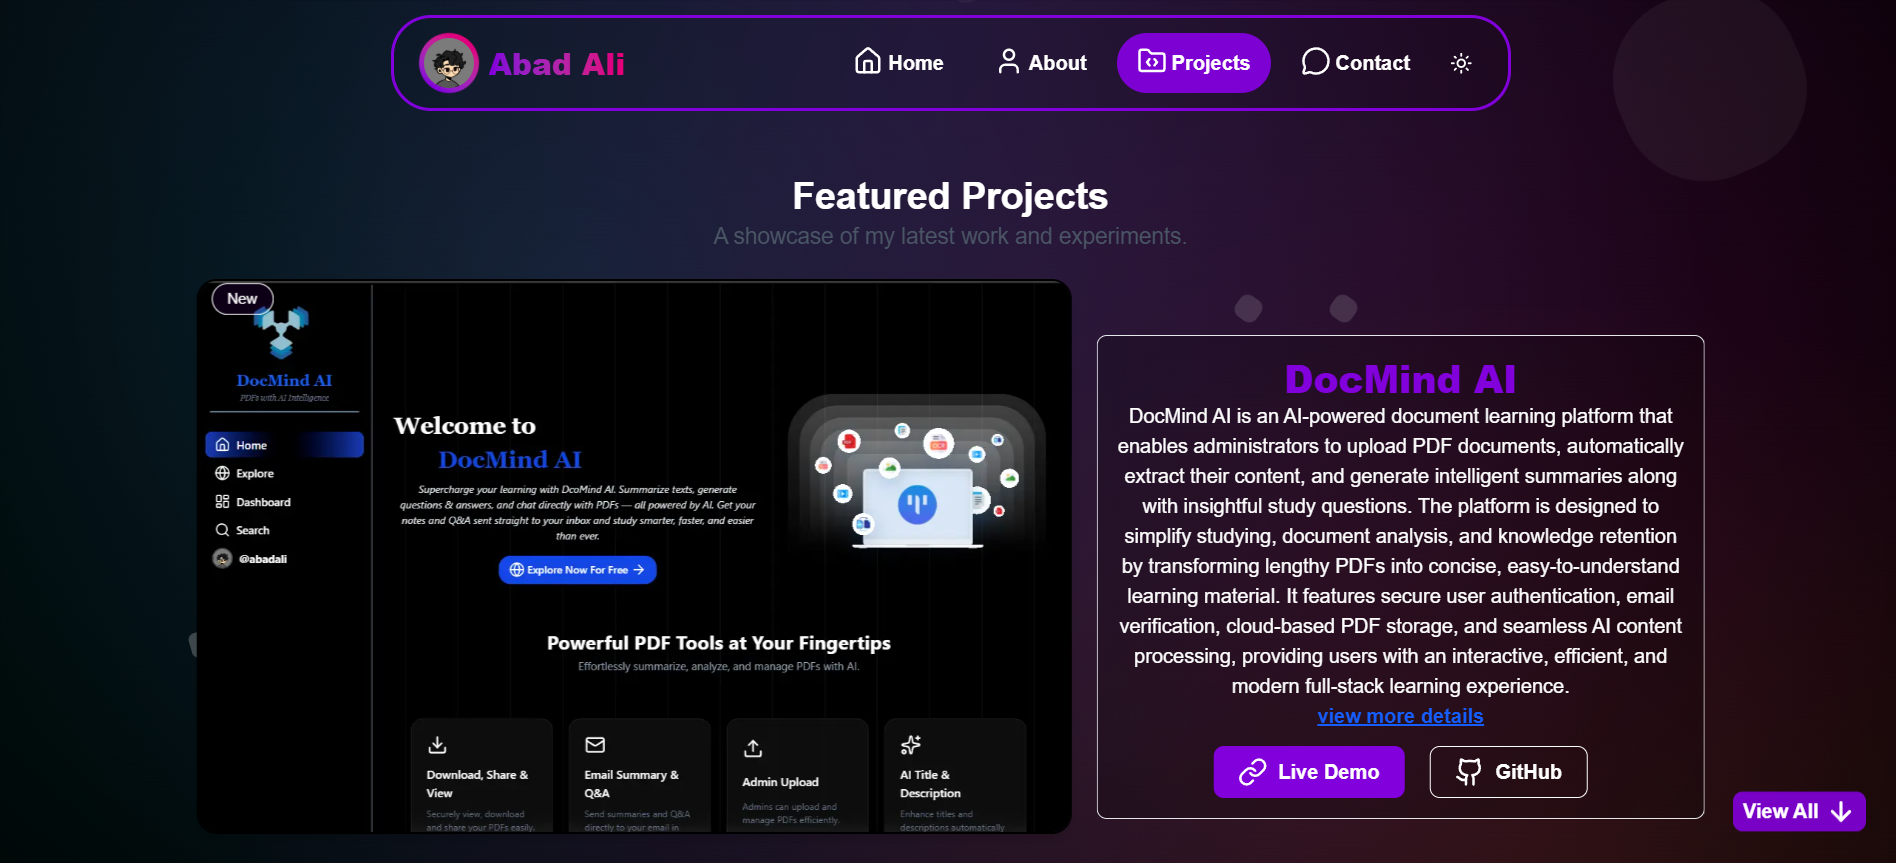
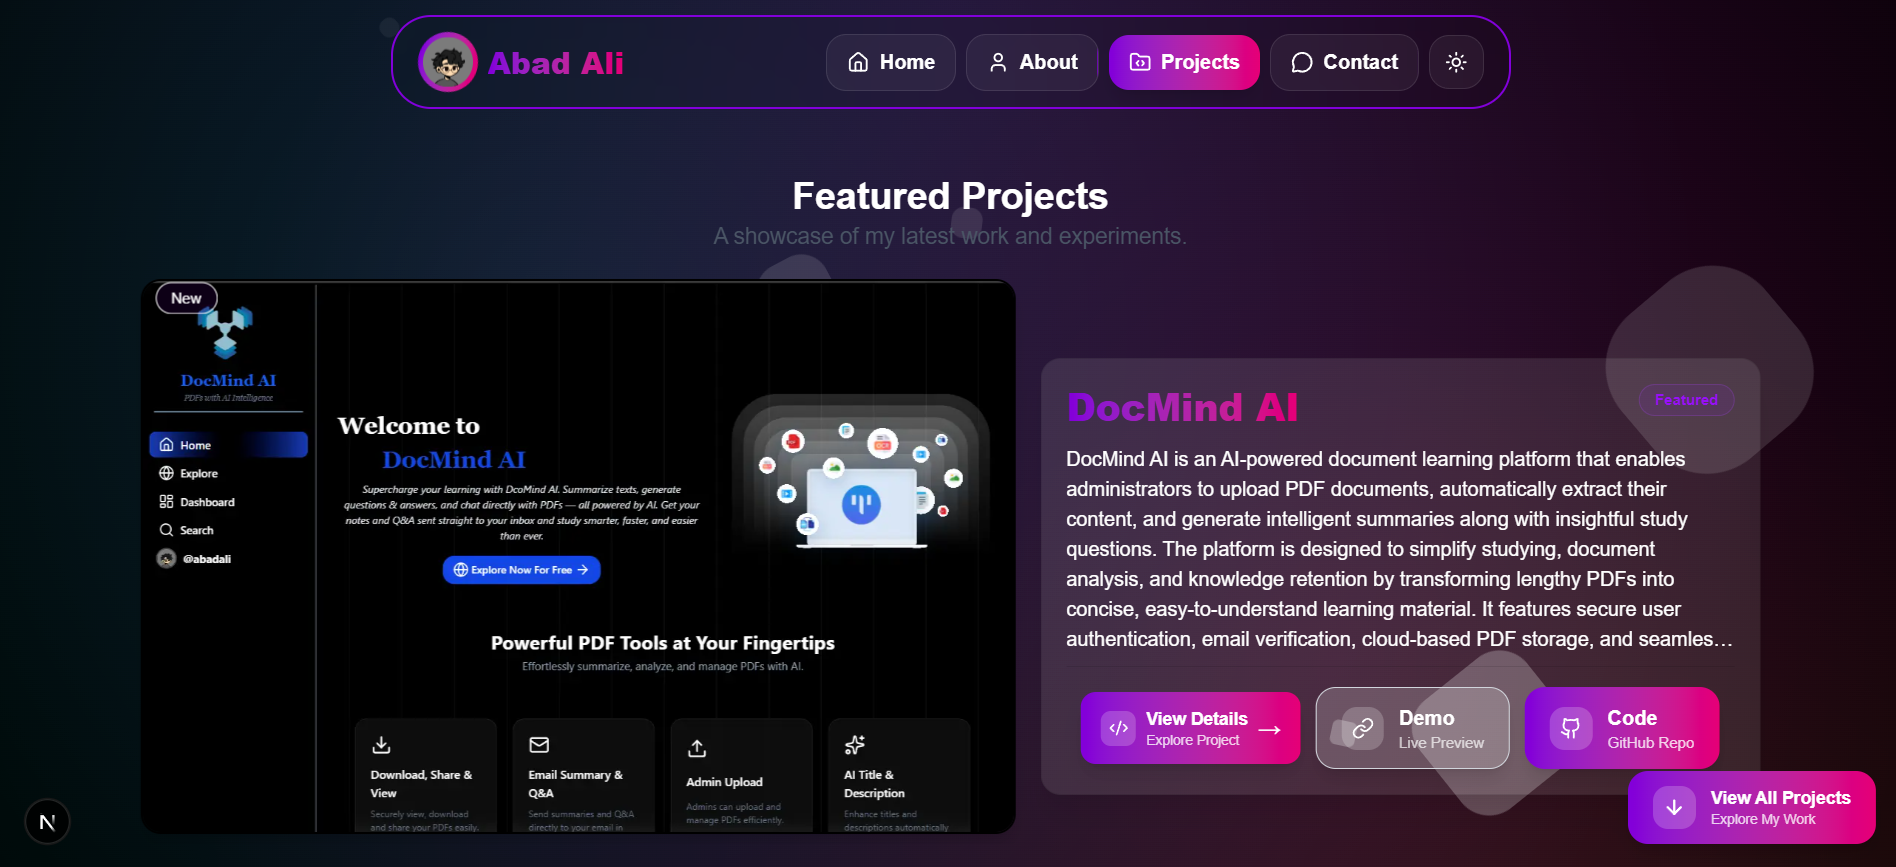
Update opengraph images and screenshots for readme document and improve the UI of the portfolio

diff --git a/app/about/AboutClient.js b/app/about/AboutClient.js
@@ -1,7 +1,7 @@
 'use client'
 import React from 'react'
 import { Avatar, AvatarFallback, AvatarImage } from "@/components/ui/avatar"
-import { ArrowRight, Code2, FileText, FolderCode, GithubIcon } from 'lucide-react'
+import { ArrowRight, Code2, FileText, FolderCode, Gauge, GithubIcon, Palette } from 'lucide-react'
 import SkillsCarousel from '@/components/SkillsCarousel'
 import Typewriter from 'typewriter-effect';
 import Link from 'next/link'
@@ -14,11 +14,34 @@ const About = () => {
     <>
       <section className='flex justify-center items-center animate-fade-in'>
         <div className='flex flex-col items-center cursor-pointer lg:mt-[20vh] mt-32'>
-            <motion.div initial={{ opacity: 0, x: -70 }} whileInView={{ opacity: 1, x: 0 }} viewport={{ once: true }} transition={{ duration: 1, ease: "easeInOut" }} className='flex flex-col md:flex-row justify-center items-center gap-5'>
-                <Avatar className="mt-[3vh] rounded-xl! shadow-lg shadow-black w-45 h-50 border-2 border-black rotate-15 hover:rotate-0  duration-700 hover:scale-110">
-                  <AvatarImage className="w-full h-full object-cover rounded-lg transition-all duration-500 hover:grayscale" src='https://github.com/Abad-Ali.png' alt="Profile_pic"/>
-                  <AvatarFallback>AA</AvatarFallback>
-                </Avatar>
+            <motion.div initial={{ opacity: 0, x: -70 }} whileInView={{ opacity: 1, x: 0 }} viewport={{ once: true }} transition={{ duration: 1, ease: "easeInOut" }} className='flex flex-col md:flex-row justify-center items-center gap-5 mx-1'>
+                <motion.div initial={{ opacity: 0, scale: 0.9, y: 20 }} whileInView={{ opacity: 1, scale: 1, y: 0 }} viewport={{ once: true }} transition={{ duration: 0.8 }} animate={{ y: [0, -6, 0] }} className="relative w-fit group">
+                  <div className="absolute -inset-3 rounded-[28px] bg-gradient-to-br from-violet-600/30 via-fuchsia-500/20 to-cyan-400/30 blur-2xl opacity-60 group-hover:opacity-90 transition-all duration-500" />
+                  <motion.div
+                    animate={{ rotate: 360 }}
+                    transition={{
+                      duration: 20,
+                      repeat: Infinity,
+                      ease: "linear",
+                    }}
+                    className="absolute inset-0 rounded-[28px] p-[1.5px] bg-gradient-to-r from-purple-500 via-pink-500 to-cyan-400">
+                    <div className="w-full h-full rounded-[27px] bg-background" />
+                  </motion.div>
+                  <div className="relative p-2 rounded-[28px] bg-background/70 md:backdrop-blur-xl border border-white/10 shadow-2xl">
+                    <Avatar className="w-[130px] h-[150px] rounded-2xl overflow-hidden">
+                      <AvatarImage src="https://github.com/Abad-Ali.png" alt="Profile"className="object-cover transition-all duration-700 group-hover:scale-105 group-hover:brightness-110"/>
+                      <AvatarFallback>AA</AvatarFallback>
+                    </Avatar>
+                    <div className="absolute -bottom-2 left-1/2 -translate-x-1/2">
+                      <div className="flex items-center gap-2 rounded-full bg-background/90 md:backdrop-blur-md border border-white/20 px-3 py-1 shadow-lg">
+                        <span className="h-2.5 w-2.5 rounded-full bg-emerald-500 animate-pulse" />
+                        <span className="text-[11px] font-medium whitespace-nowrap">
+                          Available for Work
+                        </span>
+                      </div>
+                    </div>
+                  </div>
+                </motion.div>
     
                 <div className="flex justify-center mt-3 px-2">
                   <div>
@@ -52,7 +75,6 @@ const About = () => {
                             "Next.js Developer",
                             "MERN Stack Developer",
                             "Backend & API Developer",
-                            "Real-Time Application Developer",
                             "React.js Developer",
                             "Software Engineer",
                             "Problem Solver"
@@ -73,31 +95,84 @@ const About = () => {
                 </div>
             </motion.div>
 
-            <motion.div initial={{ opacity: 0, x: 70 }} whileInView={{ opacity: 1, x: 0 }} transition={{ duration: 1, ease: "easeInOut" }} className='md:ml-[10vw] grid grid-cols-3 justify-center items-center gap-3 md:gap-5 mt-5'>
-              <button className='backdrop-blur-0 md:backdrop-blur-lg bg-black/7 px-2 md:px-7 py-4 rounded-lg cursor-pointer border-[1] border-gray-200 hover:scale-110 duration-300'>
-                  <p className='text-sm text-gray-600 font-sans font-bold'>Specialty</p>
-                  <p className='font-sans font-bold'>Full stack</p>
-              </button>
-    
-              <button className='backdrop-blur-0 md:backdrop-blur-lg bg-black/7 px-2 md:px-7 py-4 rounded-lg cursor-pointer border-[1] border-gray-200 hover:scale-110 duration-300'>
-                  <p className='text-sm text-gray-600 font-sans font-bold'>UI/UX</p>
-                  <p className='font-sans font-bold'>User-friendly</p>
-              </button>
-    
-              <button className='backdrop-blur-0 md:backdrop-blur-lg bg-black/7 px-2 md:px-7 py-4 rounded-lg cursor-pointer border-[1] border-gray-200 hover:scale-110 duration-300'>
-                  <p className='text-sm text-gray-600 font-sans font-bold'>Focus</p>
-                  <p className='font-sans font-bold'>Performance</p>
-              </button>
+            <motion.div initial={{ opacity: 0, x: 70 }} whileInView={{ opacity: 1, x: 0 }} viewport={{ once: true }} transition={{ duration: 0.8 }} className="md:ml-[8vw] mt-5 flex flex-wrap justify-center gap-3">
+            
+              {[
+                {
+                  title: "Specialty",
+                  value: "Full Stack",
+                  Icon: Code2,
+                  color: "from-violet-500 to-purple-600",
+                },
+                {
+                  title: "Design",
+                  value: "User Focus",
+                  Icon: Palette,
+                  color: "from-pink-500 to-rose-500",
+                },
+                {
+                  title: "Focus",
+                  value: "Performance",
+                  Icon: Gauge,
+                  color: "from-cyan-500 to-blue-500",
+                },
+              ].map((item, index) => (
+                <motion.div key={index} whileHover={{ y: -5, scale: 1.03 }} transition={{ duration: 0.25 }} className="relative group">
+                  <div className="relative pt-5 px-7 py-3 min-w-[105px] md:min-w-[135px] rounded-xl border border-gray-200 dark:border-white/10 bg-white/5 md:backdrop-blur-xl shadow-md overflow-hidden group-hover:shadow-xl duration-300">
+                    <div className="relative flex items-center gap-2">
+                      <div className={`w-8 h-8 rounded-lg flex items-center justify-center bg-gradient-to-br ${item.color}`}>
+                        <item.Icon className="w-4 h-4 text-white"/>
+                      </div>
+                      <div>
+                        <h3 className="text-xs md:text-sm font-black whitespace-nowrap">
+                          {item.value}
+                        </h3>
+                        <p className="text-[10px] text-gray-500">
+                          {item.title}
+                        </p>
+                      </div>
+                    </div>
+                    <div className={`absolute bottom-0 left-0 h-[2px] w-full bg-gradient-to-r ${item.color}`}/>
+                  </div>
+                </motion.div>
+              ))}
             </motion.div>
 
-            <motion.div initial={{ opacity: 0, x: 70 }} whileInView={{ opacity: 1, x: 0 }} transition={{ duration: 1, ease: "easeInOut" }} className='md:ml-[10vw] flex justify-center items-center gap-5 mt-4'>
-              <Link href='/projects' className='backdrop-blur-0 md:backdrop-blur-lg bg-black/7 px-7 py-3 rounded-lg cursor-pointer border-2 border-purple-700 hover:scale-110 duration-300'>
-                  <p className='font-sans font-bold flex items-center gap-1'><FolderCode className='inline'/><span>Projects</span></p>
-              </Link>
+            <motion.div initial={{ opacity: 0, x: 70 }} whileInView={{ opacity: 1, x: 0 }} transition={{ duration: 1, ease: "easeInOut" }} className='md:ml-[10vw] flex justify-center items-center gap-3 mt-4'>
+              <motion.div
+                initial={{opacity:0,y:10}}
+                whileInView={{opacity:1,y:0}}
+                transition={{delay:0.7}}>
+                <Link href="/projects" className="group relative flex items-center gap-3 px-2.5 md:px-6 py-3.5 rounded-2xl overflow-hidden bg-gradient-to-r from-purple-700 to-pink-600 text-white shadow-lg cursor-pointer">
+                  <div className="absolute inset-0 bg-black/20 translate-x-full group-hover:translate-x-0 duration-500"></div>
+                  <div className="relative z-10 flex items-center gap-3">
+                  <div className="p-2 rounded-xl bg-white/20">
+                    <Code2 size={20}className="group-hover:rotate-12 duration-300"/>
+                  </div>
+                  <div>
+                    <p className="font-bold">Explore Projects</p>
+                    <p className="text-xs opacity-80">See My Work</p>
+                  </div>
+                  <ArrowRight size={18} className="group-hover:translate-x-2 duration-300"/>
+                  </div>
+                </Link>
+              </motion.div>
 
-              <Link href='https://github.com/Abad-Ali' target='_blank' className='backdrop-blur-0 md:backdrop-blur-lg bg-black/7 px-7 py-3 rounded-lg cursor-pointer border-2 border-purple-700 hover:scale-110 duration-300'>
-                  <p className='font-sans font-bold flex items-center gap-1'><GithubIcon className='inline'/><span>GitHub</span></p>
-              </Link>
+              <motion.div
+                initial={{opacity:0,y:10}}
+                whileInView={{opacity:1,y:0}}
+                transition={{delay:0.8}}>
+                 <Link href='https://github.com/Abad-Ali' target='_blank' className="group flex items-center gap-3 px-2.5 md:px-5 py-3.5 rounded-2xl border border-gray-300 dark:border-white/20 bg-gray-100/60 dark:bg-white/5 backdrop-blur-xl hover:scale-105 transition hover:bg-gradient-to-r from-purple-700 to-pink-600 duration-500">
+                   <div className="p-2 rounded-xl bg-white/20 group-hover:rotate-12 duration-300">
+                     <GithubIcon size={18}/>
+                   </div>
+   
+                   <div className="leading-tight">
+                     <p className="font-bold text-sm">GitHub</p>
+                     <p className="text-[11px] opacity-70">Source Code</p>
+                   </div>
+                 </Link>
+              </motion.div>
             </motion.div>
 
             <motion.div initial={{ opacity: 0, y: 30 }} whileInView={{ opacity: 1, y: 0 }} transition={{ duration: 1, ease: "easeInOut" }} viewport={{ once: true }} className="flex flex-col md:flex-row items-center justify-between gap-6 mt-10 bg-black/5 backdrop-blur-lg px-6 py-7 rounded-3xl border border-gray-200/40 shadow-xl m-2 hover:-translate-y-1 transition-all duration-300">

diff --git a/app/HomeClient.js b/app/HomeClient.js
@@ -33,34 +33,24 @@ const body = encodeURIComponent(
   if (showIntro) {
     return (
       <div className="fixed inset-0 z-50 flex items-center justify-center bg-[#0a0a0a] text-white overflow-hidden">
-  
         <div className="absolute top-0 left-0 w-full h-px bg-white/10"/>
-  
         <div className="absolute inset-0 flex items-center justify-center">
           <div className="w-[500px] h-[500px] rounded-full border border-white/5 animate-[spin_20s_linear_infinite]"/>
           <div className="absolute w-[350px] h-[350px] rounded-full border border-white/5 animate-[spin_15s_linear_infinite_reverse]"/>
         </div>
-  
         <div className="relative z-10 flex flex-col items-center">
-  
           <motion.div initial={{scale:.7,opacity:0}} animate={{scale:1,opacity:1}} transition={{duration:.8}} className="mb-10">
             <div className="relative">
               <div className="absolute -inset-5 rounded-full border border-white/10 animate-pulse"/>
               <Image src="/logo.png" alt="logo" width={100} height={100} className="rounded-3xl border border-white/20 shadow-2xl"/>
             </div>
           </motion.div>
-  
-  
           <motion.p initial={{opacity:0,y:20}} animate={{opacity:1,y:0}} transition={{delay:.3}} className="text-xs tracking-[0.5em] uppercase text-gray-500">
             Portfolio
           </motion.p>
-  
-  
           <motion.h1 initial={{opacity:0,y:20}} animate={{opacity:1,y:0}} transition={{delay:.5}} className="mt-4 text-5xl md:text-7xl font-black tracking-tight">
             Abad Ali
           </motion.h1>
-  
-  
           <motion.div initial={{opacity:0}} animate={{opacity:1}} transition={{delay:.8}} className="mt-5 text-gray-400 text-lg md:text-xl font-medium">
             <Typewriter
               options={{
@@ -77,14 +67,17 @@ const body = encodeURIComponent(
               }}
             />
           </motion.div>
-  
-  
           <motion.div initial={{width:0}} animate={{width:120}} transition={{delay:1,duration:.8}} className="h-px bg-white/30 mt-10"/>
-  
-  
           <motion.p initial={{opacity:0}} animate={{opacity:1}} transition={{delay:1.2}} className="mt-6 max-w-sm text-center text-sm text-gray-500 mx-2">
             Designing and developing modern web applications with clean code and thoughtful experiences.
           </motion.p>
+          <motion.button initial={{ opacity: 0, y: 20 }} animate={{ opacity: 1, y: 0 }} transition={{ delay: 1.5, duration: 0.5 }} whileHover={{ scale: 1.05 }} whileTap={{ scale: 0.95 }} onClick={() => setShowIntro(false)} className="group relative mx-1.5 mt-10 flex items-center gap-3 px-7 py-3 rounded-full border border-white/20 bg-white/[0.03] backdrop-blur-md text-sm uppercase tracking-[0.25em] text-gray-400 overflow-hidden transition-all duration-500 hover:border-white/40 hover:text-white cursor-pointer">
+            <span className="absolute inset-0 bg-gradient-to-r from-white/0 via-white/10 to-white/0 translate-x-[-100%] group-hover:translate-x-[100%] transition-transform duration-700"/>
+            <span className="relative z-10">
+              Enter Portfolio
+            </span>
+            <span className=" relative z-10 transition-transform duration-300 group-hover:translate-x-1"> →</span>
+          </motion.button>
   
         </div>
   

diff --git a/components/Navbar.jsx b/components/Navbar.jsx
@@ -123,7 +123,7 @@ const Navbar = () => {
                 <motion.div key={index} whileHover={{scale:1.08,y:-2}} whileTap={{scale:0.95}} transition={{duration:0.2}}>
                   <Link href={item.href} className={`group relative flex items-center gap-2 px-4 py-2.5 rounded-2xl overflow-hidden transition duration-300 ${isActive ? "bg-gradient-to-r from-purple-700 to-pink-600 text-white shadow-lg" : "bg-white/5 border border-gray-200 dark:border-white/10"}`}>
                     {!isActive && (
-                      <div className="absolute inset-0 bg-gradient-to-r from-purple-700 to-pink-600 translate-x-full group-hover:translate-x-0 duration-500"/>
+                      <div className="absolute inset-0 bg-gradient-to-r from-purple-700 to-pink-600 translate-x-[101%] group-hover:translate-x-0 duration-500"/>
                     )}
                     <span className="relative z-10 group-hover:rotate-12 duration-300">
                       {item.icon}

diff --git a/components/ThemeWrapper.jsx b/components/ThemeWrapper.jsx
@@ -6,6 +6,7 @@ import Navbar from "@/components/Navbar";
 import Footer from "@/components/Footer";
 import { toast, Toaster } from "sonner"
 import styles from "@/components/AnimatedBackground.module.css";
+import { Info } from "lucide-react";
 
 export default function ThemeWrapper({ children }) {
  const { theme } = useTheme(); 
@@ -15,7 +16,10 @@ export default function ThemeWrapper({ children }) {
   useEffect(() => {
     setTimeout(() => {
       if (!mounted.current) {
-        toast.info("Try a different mode for better UI Experiance");
+        toast.info("Try a different mode for better UI Experiance",{
+          icon: <Info/>,
+          className: "custom-toast",
+        });
         mounted.current = true; // ensures it only fires once
       }
     }, 7000);

diff --git a/components/EducationSection.jsx b/components/EducationSection.jsx
@@ -58,15 +58,15 @@ const EducationSection = () => {
 
             <div>
 
-              <h3 className="text-xl font-black">
+              <h3 className="text-lg md:text-xl font-black">
                 Bachelor of Computer Applications (BCA)
               </h3>
 
-              <p className="mt-2 font-semibold text-purple-600">
+              <p className="mt-2 font-semibold text-purple-600 text-sm md:text-base">
                 Sun Institute Of Management And Technology
               </p>
 
-              <p className="text-sm text-gray-600 mt-1 font-semibold">
+              <p className="text-xs md:text-sm text-gray-600 mt-1 font-semibold">
                 Affiliated with MJPRU • 2023 - 2026
               </p>
 

diff --git a/components/SkillsCarousel.jsx b/components/SkillsCarousel.jsx
@@ -63,7 +63,7 @@ const SkillsCarousel = () => {
       <div className="space-y-6">
 
 
-        <div className="flex gap-5 w-max animate-[scroll_25s_linear_infinite]">
+        <div className="flex gap-5 w-max animate-[scroll_50s_linear_infinite]">
 
           {[...skills,...skills].map((skill,index)=>(
             <SkillCard
@@ -76,7 +76,7 @@ const SkillsCarousel = () => {
 
 
 
-        <div className="flex gap-5 w-max animate-[scrollReverse_25s_linear_infinite]">
+        <div className="flex gap-5 w-max animate-[scrollReverse_50s_linear_infinite]">
 
           {[...skills.reverse(),...skills].map((skill,index)=>(
             <SkillCard

diff --git a/app/projects/[projectname]/ProjectnameClient.js b/app/projects/[projectname]/ProjectnameClient.js
@@ -95,7 +95,7 @@ const ProjectnameClient = ({ project }) => {
 
                 <div className="flex flex-col items-center gap-3">
                   <div>
-                    <h1 className="mt-3 text-3xl sm:text-4xl md:text-6xl font-black text-gray-900 dark:text-white">
+                    <h1 className="mt-3 text-3xl sm:text-4xl md:text-6xl font-black text-gray-900 dark:text-white text-center">
                       {project.name}
                     </h1>
                   </div>

diff --git a/components/Footer.jsx b/components/Footer.jsx
@@ -37,6 +37,9 @@ const Footer = () => {
               <Link href="/" className="hover:text-purple-400 duration-300">
                 Home
               </Link>
+              <Link href="/about" className="hover:text-purple-400 duration-300">
+                About
+              </Link>
               <Link href="/projects" className="hover:text-purple-400 duration-300">
                 Projects
               </Link>

diff --git a/app/globals.css b/app/globals.css
@@ -50,3 +50,17 @@ html {
   -ms-overflow-style: none;  /* IE and Edge */
   scrollbar-width: none;     /* Firefox */
 }
+
+.custom-toast {
+  background: #000 !important;
+
+  color: #fff !important;
+
+  border: 1px solid rgba(255,255,255,0.15) !important;
+
+  border-radius: 12px !important;
+
+  padding: 12px 18px !important;
+
+  box-shadow: 0 10px 30px rgba(0,0,0,0.35) !important;
+}
